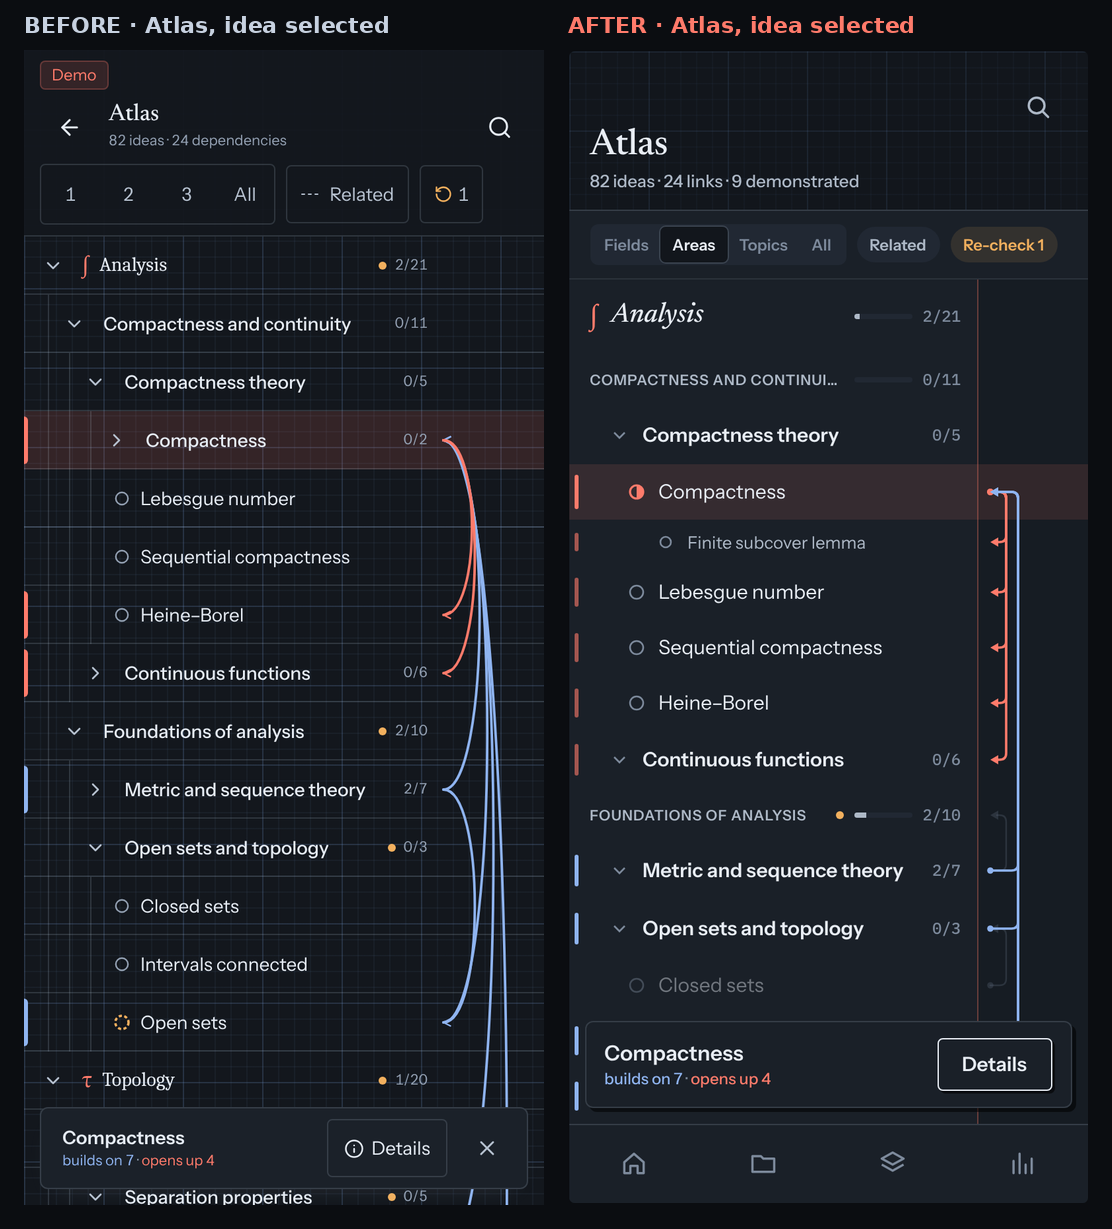
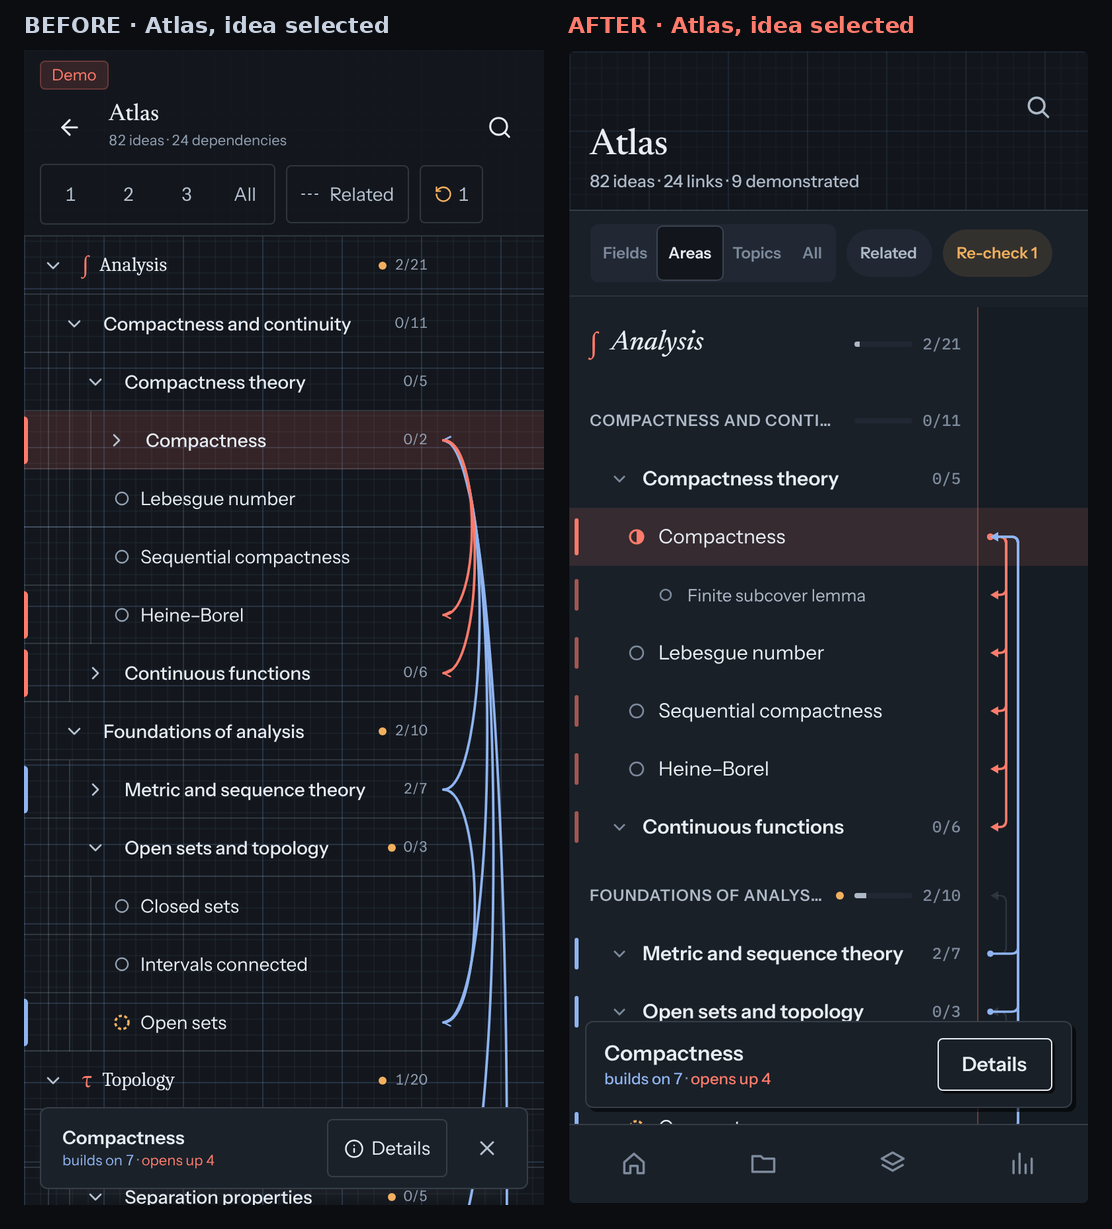
DOCS v4 look: meet hard stress budgets (Auditor block on #520)
- Text >= 12px: Atlas Area small caps and tab labels 12px; spec restates
  stress.md 1.2 (text >= 12px, maths >= 16px).
- Touch targets >= 44x44: every interactive Atlas row 44px (hierarchy by
  type, indent and non-interactive spacing); Route stations/capsules are
  never separate targets - Today Route is one link, project page adds
  44px prev/next steppers; toolbar hit areas >= 44px.
- Marks >= 8px edge clearance: capsules and stations spaced by measured
  edge clearance; open-stage stations inset; finished/far stages merge
  when they cannot fit. Mockups measured in-browser: min gap 8px.
- Atlas link threshold aligned with stress.md C1 (60).
- QA-4 and Definition of done inherit every stress budget (DOM nodes,
  4x CPU render time, E1 request/byte limits) as a hard gate.

Claude-Session: https://claude.ai/code/session_0172Sf9xwUy1G35PpYwED8Nj

diff --git a/docs/design/v4/mockups.html b/docs/design/v4/mockups.html
@@ -78,31 +78,31 @@ body{background:#0B0D11;font-family:var(--sans);color:var(--ink);padding:24px;di
 .spark i{width:8px;background:var(--ink-3);border-radius:2px 2px 0 0;opacity:.7}
 .spark i.today{background:var(--accent);opacity:1}
 .tabbar{position:absolute;left:0;right:0;bottom:0;height:60px;background:var(--paper);border-top:1px solid var(--edge);display:flex;justify-content:space-around;align-items:center}
-.tab{display:flex;flex-direction:column;align-items:center;gap:2px;color:var(--ink-3);font:600 11px var(--sans);min-width:60px}
+.tab{display:flex;flex-direction:column;align-items:center;gap:2px;color:var(--ink-3);font:600 12px var(--sans);min-width:60px}
 .tab svg{width:22px;height:22px}
 .tab.on{color:var(--accent)}
 /* Atlas */
 .atlas{margin:0 -16px;background:var(--paper);border-top:1px solid var(--edge);position:relative}
 .tool{display:flex;gap:8px;align-items:center;padding:10px 16px;border-bottom:1px solid var(--hair)}
 .seg{display:flex;background:var(--paper-2);border-radius:6px;padding:2px}
-.seg span{font:600 12px var(--sans);color:var(--ink-3);padding:6px 9px;border-radius:4px}
+.seg span{font:600 12px var(--sans);color:var(--ink-3);padding:0 8px;height:40px;line-height:40px;border-radius:4px}
 .seg span.on{background:var(--bg);color:var(--ink);box-shadow:0 0 0 1px var(--edge)}
-.toggle{font:600 12px var(--sans);color:var(--ink-2);padding:6px 10px;border-radius:999px;background:var(--paper-2)}
+.toggle{white-space:nowrap;font:600 12px var(--sans);color:var(--ink-2);padding:0 11px;height:36px;line-height:36px;border-radius:999px;background:var(--paper-2)}
 .toggle.warn{color:var(--late);background:color-mix(in srgb,var(--late) 12%,transparent)}
 .tree{position:relative}
 .margin{position:absolute;top:0;bottom:0;right:0;width:84px;border-left:1px solid color-mix(in srgb,var(--accent) 35%,transparent);background:color-mix(in srgb,var(--bg) 40%,transparent)}
 .n{position:relative;display:flex;align-items:center;gap:10px;padding-right:96px}
 .n .guide{position:absolute;top:0;bottom:0;width:1px;background:var(--hair)}
-.n.field{height:56px;padding-left:16px}
+.n.field{height:56px;padding-left:16px;margin-top:8px}
 .n.field .nm{font:italic 500 21px var(--display)}
 .n.field .g{font:italic 22px 'STIX Two Text',serif;color:var(--accent)}
-.n.area{height:40px;padding-left:16px}
-.n.area .nm{font:600 11px var(--sans);letter-spacing:.05em;text-transform:uppercase;color:var(--ink-2);white-space:nowrap;overflow:hidden;text-overflow:ellipsis;min-width:0}
+.n.area{height:44px;padding-left:16px;margin-top:8px}
+.n.area .nm{font:600 12px var(--sans);letter-spacing:.05em;text-transform:uppercase;color:var(--ink-2);white-space:nowrap;overflow:hidden;text-overflow:ellipsis;min-width:0}
 .n.topic{height:44px;padding-left:30px}
 .n.topic .nm{font:600 15px var(--sans);white-space:nowrap;overflow:hidden;text-overflow:ellipsis;min-width:0}
-.n.idea{height:42px;padding-left:44px}
+.n.idea{height:44px;padding-left:44px}
 .n.idea .nm{font:400 15px var(--sans);color:var(--ink)}
-.n.detail{height:34px;padding-left:66px}
+.n.detail{height:44px;padding-left:66px}
 .n.detail .nm{font:400 13px var(--sans);color:var(--ink-2)}
 .prog{margin-left:auto;display:flex;align-items:center;gap:8px;font:500 12px var(--mono);color:var(--ink-3)}
 .prog .bar{width:44px;height:4px;border-radius:2px;background:var(--paper-2);overflow:hidden}
@@ -271,7 +271,7 @@ const css=n=>getComputedStyle(document.documentElement).getPropertyValue(n);
 function draw(svg){
  const d=JSON.parse(svg.dataset.route), W=svg.getBoundingClientRect().width, H=64, y=24;
  const scope=svg.closest('.day')?'.day':null;
- const total=d.stages.reduce((a,b)=>a+b,0), gap=7, NS='http://www.w3.org/2000/svg';
+ const total=d.stages.reduce((a,b)=>a+b,0), gap=8, NS='http://www.w3.org/2000/svg';
  const el=(t,a)=>{const e=document.createElementNS(NS,t);for(const k in a)e.setAttribute(k,a[k]);svg.appendChild(e);return e};
  const v=n=>`var(${n})`;
  let segs=[];
@@ -279,25 +279,34 @@ function draw(svg){
   let x=8; const step=(W-16)/(total-1); let idx=0;
   d.stages.forEach((c,s)=>{segs.push({s,x0:8+idx*step,x1:8+(idx+c-1)*step,expanded:true,count:c,start:idx});idx+=c});
  } else {
-  const n=d.stages.length, curW=Math.min(W*0.56, d.stages[d.cur]*26), rest=W-16-curW-gap*(n-1);
-  const others=d.stages.reduce((a,c,i)=>i===d.cur?a:a+Math.sqrt(c),0);
+  // groups: merge finished stages (and then far future ones) until every capsule is >= 4px with 8px clearance
+  let groups=d.stages.map((c,s)=>({s,count:c,members:[s]}));
+  const curW=Math.min(W*0.56, d.stages[d.cur]*26);
+  const fits=g=>{const k=g.length-1, rest=W-16-curW-gap*(g.length-1);const o=g.filter(x=>x.s!==d.cur);return o.length===0||rest/o.length>=6};
+  if(!fits(groups)&&d.cur>1){const done=groups.slice(0,d.cur);groups=[{s:0,count:done.reduce((a,x)=>a+x.count,0),members:done.map(x=>x.s),merged:true},...groups.slice(d.cur)];}
+  while(!fits(groups)&&groups.length>3){const a=groups.pop(),b=groups.pop();groups.push({s:b.s,count:a.count+b.count,members:[...b.members,...a.members],merged:true,future:true});}
+  const n=groups.length, rest=W-16-curW-gap*(n-1);
+  const others=groups.reduce((a,g)=>g.members.includes(d.cur)?a:a+Math.sqrt(g.count),0);
   let x=8;
-  d.stages.forEach((c,s)=>{const w=s===d.cur?curW:rest*Math.sqrt(c)/others;segs.push({s,x0:x,x1:x+w,expanded:s===d.cur,count:c});x+=w+gap});
+  groups.forEach(g=>{const isCur=g.members.length===1&&g.members[0]===d.cur;const w=isCur?curW:rest*Math.sqrt(g.count)/others;
+   const done=g.members.reduce((a,m)=>a+d.done[m],0);
+   segs.push({s:isCur?d.cur:(g.members[0]<d.cur?-1:999),x0:x,x1:x+w,expanded:isCur,count:g.count,doneOverride:done,members:g.members});x+=w+gap});
  }
  // track
  segs.forEach((g,i)=>{
-  const done=d.done[g.s], full=done===g.count, past=g.s<d.cur, future=g.s>d.cur;
+  const done=g.doneOverride??d.done[g.s], full=done===g.count, past=g.s<d.cur, future=g.s>d.cur;
   if(!g.expanded){
    if(past||full){el('rect',{x:g.x0,y:y-3,width:Math.max(2,g.x1-g.x0),height:6,rx:3,fill:d.late&&g.s===d.cur-1?v('--late'):v('--ink-2'),opacity:.9});
     if(d.early&&past)el('line',{x1:g.x0,x2:g.x1,y1:y+7,y2:y+7,stroke:v('--early'),'stroke-width':1.5});}
    else el('rect',{x:g.x0+.75,y:y-2.25,width:Math.max(2,g.x1-g.x0-1.5),height:4.5,rx:2.25,fill:'none',stroke:v('--ink-4'),'stroke-width':1.5});
   } else {
-   const k=g.count, step=k>1?(g.x1-g.x0)/(k-1):0, cs=g.s===d.cur?d.curStation:(done);
-   for(let j=0;j<k-1;j++){const xa=g.x0+j*step, xb=xa+step, isDone=j<done;
+   const inset=total<=14?0:7, gx0=g.x0+inset, gx1=g.x1-inset;
+   const k=g.count, step=k>1?(gx1-gx0)/(k-1):0, cs=g.s===d.cur?d.curStation:(done);
+   for(let j=0;j<k-1;j++){const xa=gx0+j*step, xb=xa+step, isDone=j<done;
     const late=d.late&&g.s===d.cur&&j===cs-1;
     el('line',{x1:xa,x2:xb,y1:y,y2:y,stroke:late?v('--late'):isDone||(g.s<d.cur)?v('--ink-2'):v('--ink-4'),'stroke-width':isDone||g.s<d.cur?2.5:1.5,'stroke-dasharray':late?'5 4':(isDone||g.s<d.cur)?'':'1 4','stroke-linecap':'round'});}
-   if(d.early&&g.s<d.cur)el('line',{x1:g.x0,x2:g.x1,y1:y+6,y2:y+6,stroke:v('--early'),'stroke-width':1.2});
-   for(let j=0;j<k;j++){const x=g.x0+j*step, isCur=g.s===d.cur&&j===cs, isDone=j<done||g.s<d.cur;
+   if(d.early&&g.s<d.cur)el('line',{x1:gx0,x2:gx1,y1:y+6,y2:y+6,stroke:v('--early'),'stroke-width':1.2});
+   for(let j=0;j<k;j++){const x=gx0+j*step, isCur=g.s===d.cur&&j===cs, isDone=j<done||g.s<d.cur;
     if(isCur){el('circle',{cx:x,cy:y,r:11,fill:v('--accent'),opacity:.16});el('circle',{cx:x,cy:y,r:5.5,fill:v('--accent')});}
     else el('circle',{cx:x,cy:y,r:isDone?3.6:3.4,fill:isDone?v('--ink-2'):v('--paper'),stroke:isDone?'none':v('--ink-3'),'stroke-width':1.4});}
   }
@@ -305,14 +314,14 @@ function draw(svg){
   if(i>0&&total<=14){const xm=(segs[i-1].x1+g.x0)/2; el('line',{x1:xm,x2:xm,y1:y-9,y2:y+9,stroke:v('--ink-4'),'stroke-width':1});}
  });
  // labels under
- const curSeg=segs[d.cur];
+ const curSeg=segs.find(g=>g.expanded)||segs[d.cur];
  const lab=(x,txt,anchor,color,weight)=>{const t=el('text',{x,y:y+28,'text-anchor':anchor,fill:color,'font-family':'Instrument Sans','font-size':12,'font-weight':weight||500});t.textContent=txt;return t};
  if(total<=14){segs.forEach(g=>{if(d.labels[g.s])lab(g.x0,d.labels[g.s],'start',g.s===d.cur?v('--ink'):v('--ink-3'),g.s===d.cur?600:500)});}
  else {
   if(d.labels[d.cur]) lab(curSeg.x0,d.labels[d.cur],'start',v('--ink'),600); else lab(curSeg.x0,'Stage '+(d.cur+1),'start',v('--ink'),600);
-  const after=segs.slice(d.cur+1); const remaining=after.reduce((a,g)=>a+g.count,0);
-  if(after.length)lab(W-8,after.length+' stages · '+remaining+' to go','end',v('--ink-3'));
-  const before=segs.slice(0,d.cur); if(before.length&&curSeg.x0>60)lab(8,before.length+' done','start',v('--ink-3'));
+  const afterSt=d.stages.slice(d.cur+1); const remaining=afterSt.reduce((a,c)=>a+c,0);
+  if(afterSt.length)lab(W-8,afterSt.length+' stages · '+remaining+' to go','end',v('--ink-3'));
+  if(d.cur>0&&curSeg.x0>60)lab(8,d.cur+' done','start',v('--ink-3'));
  }
  // current code above
  const k=curSeg.count, step=k>1?(curSeg.x1-curSeg.x0)/(k-1):0, cx=curSeg.x0+step*d.curStation;

diff --git a/docs/spec/v4-look.md b/docs/spec/v4-look.md
@@ -64,7 +64,7 @@ Rules:
 | Meta | Instrument Sans 500 | 13 / 18, `--ink-2` | secondary lines; footnotes 12 px `--ink-3` |
 | Code | IBM Plex Mono 500 | 12, tabular | checkpoint codes (CP4), card numbers (N1) only |
 
-Durations and counts use Instrument Sans with tabular figures ("18 h 40 min", "3 of 36", "Due now"). Uppercase is used only for Atlas Area labels (small caps, 11 px, 0.05 em). Remove EB Garamond from the font URL in `index.html`. Maths stays STIX/KaTeX ≥ 16 px (stress.md §1).
+Durations and counts use Instrument Sans with tabular figures ("18 h 40 min", "3 of 36", "Due now"). Uppercase is used only for Atlas Area labels (small caps, 12 px, 0.05 em). The hard stress budgets of stress.md §1.2 hold everywhere: no informative text under 12 px, and no maths under 16 px. Remove EB Garamond from the font URL in `index.html`. Maths stays STIX/KaTeX ≥ 16 px (stress.md §1).
 
 ### 2d. The drawing becomes a letterhead
 
@@ -116,7 +116,7 @@ The Route is 64 px tall. The track sits at y = 24 and labels sit on a baseline a
   - Every other stage is a **capsule** on the same line:
     - done stage: 6 px filled `--ink-2`, tinted `--late` if it finished late;
     - future stage: a 4.5 px outline in `--ink-4`.
-  - Capsule widths are ∝ √count with 7 px gaps, so marks are never closer than 8 px (stress.md §1.2).
+  - Capsule widths are ∝ √count (minimum 4 px), with **at least 8 px edge clearance** between any two marks: capsule to capsule, capsule to station, and station to station (stress.md §1.2). If 15 or more stages cannot fit at 8 px clearance, the farthest future stages merge into one capsule labelled "+n stages".
   - Labels:
     - the current stage name under its start (`--ink` 600);
     - "5 done" at the left when there is room;
@@ -125,15 +125,16 @@ The Route is 64 px tall. The track sits at y = 24 and labels sit on a baseline a
   - Keep neutral groups of 8.
   - Label only the current one ("CP9–16"); the others are unlabelled capsules.
   - Never draw "Stage" as a name.
-- **Interaction:**
-  - The whole Route is one control, 64 px tall.
-  - Tapping a capsule unfolds that stage (180 ms width transition; none with reduced motion).
-  - Tapping a station selects it and updates the now-line; a second tap opens the checkpoint sheet.
-  - ← and → move station by station across stages, unfolding as they go.
-  - Every station is reachable with ≥ 44 px targets: the band is 64 px tall, and in the unfolded stage stations are about 24 px apart or more, so a tap picks the nearest station.
+- **Interaction:** every interactive element is at least 44 × 44 px. Stations and capsules are never separate tap targets.
+  - **On Today:** the whole Route (64 px tall, full card width) is one link to the current checkpoint's sheet. There is no station browsing on Today.
+  - **On the project page:** the Route is one 80 px-tall control.
+    - A tap selects the nearest station, or unfolds the tapped stage (180 ms width transition; none with reduced motion). This is a convenience only.
+    - The now-line carries **‹ and › stepper buttons, 44 × 44 px**, which reach every station in plan order across stages, unfolding as they go.
+    - ← and → do the same from the keyboard; Enter or a 44 px **Open** button opens the checkpoint sheet.
+  - The Mini Route is not interactive: its row is the target.
 - **Now-line** under the Route: `CP4` (code style, accent), the title (Tex), and "3 of 36" right-aligned in `--ink-3`.
 - **Mini Route** for Paths rows, Today's "n more" list and the project switcher:
-  - one 6 px capsule per stage, 2 px gaps, filled by done;
+  - one 6 px capsule per stage, 2 px gaps, filled by done; each segment is at least 8 px wide, and if they do not fit, neighbouring future stages merge (stress.md A2);
   - a 2 × 12 px accent notch at the current checkpoint;
   - never ticks.
 - **Project page:** the same Route at 80 px, with every stage name shown (two lines allowed) and a legend listing only the states present.
@@ -163,17 +164,18 @@ Owner decisions kept: a foldable outline, prerequisite links in a right-hand mar
 **Target:**
 
 1. **Paper sheet.** The outline sits on `--paper` (full bleed), with no grid behind the rows. The margin becomes a notebook margin: a 1 px `--accent` rule at 35 % on its left edge.
-2. **Levels look different** (rows are no longer all 44 px):
+2. **Levels look different through type, not through shorter rows.** Every interactive row is at least 44 px tall (stress.md §1.2). Hierarchy comes from type, indent and an 8 px non-interactive space above each Area and Field:
 
 | Level | Row | Style | Right side |
 | --- | --- | --- | --- |
 | Field | 56 px, sticky | subject glyph in accent (STIX 22) + Newsreader italic 21 | 44 px progress bar + "2/21" |
-| Area | 40 px | small caps 11 px, 0.05 em, `--ink-2` | progress bar + count |
+| Area | 44 px | small caps 12 px, 0.05 em, `--ink-2` | progress bar + count |
 | Topic | 44 px | Instrument Sans 15/600 + chevron | count only |
-| Idea | 42 px | 15/400 + status disc | — |
-| Detail | 34 px | 13 px `--ink-2`, one extra indent | — |
+| Idea | 44 px | 15/400 + status disc | — |
+| Detail | 44 px | 13 px `--ink-2`, one extra indent | — |
 
    - Hairlines only before Areas and Fields.
+   - Fold chevrons keep their 44 × 44 px button (`size-11`), and the select target is the rest of the row. Neither is smaller than 44 px or overlaps another target.
    - Guide lines stay, at 6 %.
    - Status discs stay, at 12 px. Re-check keeps its amber, now named `--late`, and a branch shows a `--late` dot when something inside needs a re-check.
 3. **Links become lanes, not bows:**
@@ -183,8 +185,9 @@ Owner decisions kept: a foldable outline, prerequisite links in a right-hand mar
    - Links that share an endpoint share a lane, so a selected idea reads as two clean trunks: **builds on** (`--link`, upwards) and **opens up** (`--accent`, downwards).
    - Bundle counts become 16 px pills with 12 px text (supersedes #483 / PR #488).
 4. **Change form at scale** (stress principle):
-   - With ≤ 40 visible links, draw them all at 35 % `--ink-3`.
-   - Above that, draw none and show a small in/out port tick on each row that has links, plus the caption "Tap an idea to trace its links".
+   - With ≤ 60 visible links, draw them all at 35 % `--ink-3`.
+   - Above 60, follow stress.md C1: draw only links that touch a folded branch or the selection, never more than 60, and show "312 links hidden — fold or select an idea".
+   - Rows whose links are hidden show a small in/out port tick. It is not interactive: the row itself is the target.
    - Selection always draws the full chain.
 5. **Selection:**
    - the row gets an accent tint at 12 % and a 3 px bar *inside* the row (x = 4);
@@ -194,6 +197,7 @@ Owner decisions kept: a foldable outline, prerequisite links in a right-hand mar
    - one segmented control "Fields · Areas · Topics · All";
    - a "Related" toggle pill with a visible on state;
    - "Re-check n" as a `--late` pill, only when n > 0.
+   - Every toolbar control has a hit area of at least 44 × 44 px, without overlapping its neighbours. Pills may be drawn smaller inside it.
    - Header: "Atlas" (display), then "82 ideas · 24 links · 9 demonstrated".
 7. **Details sheet:**
    - typeset title and path (#485), with tappable crumbs;
@@ -327,16 +331,16 @@ Add to `plan.md` §8 as "v4 look (owner, 31 Oct 13:08)". One PR per task (split 
 | Task | Depends on | Owns | Scope and acceptance |
 | --- | --- | --- | --- |
 | LOOK-0 Tokens | — | `scripts/make-themes.ts`, `src/styles/themes.css`, `tokens.css`, `src/lib/schedule.ts` (`scheduleColor`), `docs/agents/README.md` §4 | §2a tokens and the §8 decision changes. **Accept:** `--accent`, `--late` and `--danger` differ pairwise by ΔE2000 ≥ 20 in both worlds (the §2a values give 24–51); the legend shows three distinct colours. |
-| LOOK-1 Surfaces and type | LOOK-0 | `src/styles/graph.css`, `src/ui/{Chip,IconButton,Segmented,Switch,Card,Slab,Tile,Button}.tsx`, new `src/ui/SectionHeading.tsx`, `index.html` | §2b, §2c. **Accept:** an e2e check finds no `.card`/`.slab`/`.tile` inside another, no box-shadow on non-interactive elements, every section heading via `SectionHeading`, no Plex Mono outside `[data-code]`, and no EB Garamond request. |
+| LOOK-1 Surfaces and type | LOOK-0 | `src/styles/graph.css`, `src/ui/{Chip,IconButton,Segmented,Switch,Card,Slab,Tile,Button}.tsx`, new `src/ui/SectionHeading.tsx`, `index.html` | §2b, §2c. **Accept:** an e2e check finds no `.card`/`.slab`/`.tile` inside another, no box-shadow on non-interactive elements, every section heading via `SectionHeading`, no Plex Mono outside `[data-code]`, no informative text under 12 px, and no EB Garamond request. |
 | LOOK-2 Letterhead | LOOK-1 | `src/ui/backgrounds/graph/GraphSketch.tsx`, `src/ui/Ground.tsx` | §2d and night grid opacity. **Accept:** on every screen, after scrolling 600 px the curve is out of view; no curve pixel overlaps a heading, chart or row (layout check). |
-| LOOK-3 Route | LOOK-0 | `src/ui/timeline/*`, `src/features/home/GoalDistance.tsx`, `src/features/projects/Page.tsx` (rows), project hero | §3. **Accept:** at 9, 36 (no stages), 40 × 15 and 100 × 15 checkpoints: one line, no horizontal scroll, no clipped glyph (`scrollWidth ≤ clientWidth` on every text node), marks ≥ 8 px apart, current code visible, every station reachable by tap and arrow keys; goal card ≤ 210 px; Today with 3 goals + Review + Tutor ≤ 2 screens at 390 × 844. |
-| LOOK-4 Atlas | LOOK-1 | `src/features/atlas/*` | §4. **Accept:** levels have distinct heights and styles; links as lanes; at 600 ideas ports and the caption show, and selection draws the chain; bundle pills ≥ 12 px; no grid behind rows. Closes #483 and #485 if still open. |
+| LOOK-3 Route | LOOK-0 | `src/ui/timeline/*`, `src/features/home/GoalDistance.tsx`, `src/features/projects/Page.tsx` (rows), project hero | §3. **Accept:** at 9, 36 (no stages), 40 × 15 and 100 × 15 checkpoints: one line, no horizontal scroll, no clipped glyph (`scrollWidth ≤ clientWidth` on every text node), marks ≥ 8 px edge clearance (measured in the browser for S and X at 360 and 390), current code visible, every station reachable through the 44 × 44 px steppers and the arrow keys, no interactive element under 44 × 44 px; goal card ≤ 210 px; Today with 3 goals + Review + Tutor ≤ 2 screens at 390 × 844. |
+| LOOK-4 Atlas | LOOK-1 | `src/features/atlas/*` | §4. **Accept:** levels have distinct type; every interactive row and chevron ≥ 44 × 44 px (Playwright bounding boxes); Area labels and bundle pills ≥ 12 px; links as lanes; in profile X with "All", never more than 60 links drawn and the hidden-links caption shows; selection draws the chain; no grid behind rows; first render < 1 s at 4× CPU with < 1,500 DOM nodes (stress.md C2). Closes #483 and #485 if still open. |
 | LOOK-5 Today and Paths | LOOK-3 | `src/features/home/*`, `src/features/projects/*` | §5 Today (including "Bottom of Today") and Paths. The Continue row overflow can land early as a `FIX` PR. |
 | LOOK-6 Project family | LOOK-3 | `src/features/project/*`, `src/features/checkpoint/*`, `src/features/session/*` | §5 Project, Checkpoint sheet (including the days-late mismatch), Session, Sources. |
 | LOOK-7 Review, cards, insights | LOOK-1 | `src/features/{review,review-run,review-done,cards,card,insights}/*`, `src/ui/charts/*` | §5, including the cards-list LaTeX bug and `plainMath` `\mathbb R`. |
 | LOOK-8 Approve and plan review | LOOK-4 | `src/features/{proposals,plan-proposal}/*` | §5 Approve, Plan proposal. |
 | LOOK-9 Settings and the rest | LOOK-1 | `src/features/{settings,sign-in,new-project}/*`, `src/app/*`, `vite.config.ts` | §5 Settings, Sign in, New project, Everywhere. |
-| QA-4 Visual acceptance | LOOK-1 … 9 | `scripts/review-shots.mjs`, `.github/workflows/review-shots.yml`, `docs/acceptance/` | Fix `review-shots.mjs`: it still requires 15 themes and throws on today's two. Capture **every** route (list in `docs/design/v4/capture-routes.md`) × day/night × default/S. Compare with `docs/design/v4/` and file one issue per deviation. |
+| QA-4 Visual acceptance | LOOK-1 … 9 | `scripts/review-shots.mjs`, `.github/workflows/review-shots.yml`, `docs/acceptance/` | Fix `review-shots.mjs`: it still requires 15 themes and throws on today's two. Capture **every** route (list in `docs/design/v4/capture-routes.md`) × day/night × default/S. Compare with `docs/design/v4/` and file one issue per deviation. **Hard gate, not just images:** re-run `tests/e2e/stress.spec.ts` on every route in both profiles and both worlds at 360 and 390. It must pass: marks ≥ 8 px apart, tap targets ≥ 44 px, text ≥ 12 px, maths ≥ 16 px, no horizontal overflow, < 1,500 DOM nodes per screen, first render < 1.5 s at 4× CPU, and request count and transfer size within the E1 budgets (stress.md §3, QA-3). A beautiful screenshot cannot pass QA-4 on its own. |
 
 **Start now in parallel:** LOOK-0, then LOOK-1, LOOK-3 and LOOK-4 (the three the owner sees first). The two bugs in LOOK-6 and LOOK-7 (days-late mismatch, cards-list LaTeX) may land early as `FIX` PRs.
 
@@ -350,6 +354,7 @@ Add to `plan.md` §8 as "v4 look (owner, 31 Oct 13:08)". One PR per task (split 
 - Every section heading is the same style.
 - No drawing behind data.
 - No clipped glyphs anywhere at 360 px, in both profiles.
+- The stress budgets still pass on every screen, in both profiles and both worlds (QA-4): text ≥ 12 px, maths ≥ 16 px, tap targets ≥ 44 × 44 px, marks ≥ 8 px apart, < 1,500 DOM nodes, render < 1.5 s at 4× CPU, and E1 request and byte limits. No look change may trade a budget for appearance; an exception needs the owner.
 
 ## 8. Owner decisions this changes (approved 31 Oct, 13:59)
 
@@ -358,8 +363,8 @@ Add to `plan.md` §8 as "v4 look (owner, 31 Oct 13:08)". One PR per task (split 
 | Schedule colours (v3 §3) | late = `--bad` (red), on time = `--accent` (red) | late = `--late` (ochre, dashed), on time = ink |
 | Background curve placement (v3 §1b) | fixed, lower right, with italic label | letterhead at the top, scrolls away, no label |
 | Card material at night (v3 §1) | 1.5 px light ink border + offset shadow on cards, chips and buttons | cards: 1 px dim edge + dark offset shadow; chips flat; shadow only on buttons |
-| Atlas rows (v3 §4) | all rows 44 px | 56 / 40 / 44 / 42 / 34 px by level |
-| Atlas links at scale (v3 §4) | always drawn (a rope at 600 ideas) | all drawn at ≤ 40 links; ports + selection above |
+| Atlas rows (v3 §4) | all rows 44 px, same style | Fields 56 px; every other row 44 px with a distinct type per level |
+| Atlas links at scale (v3 §4) | always drawn (a rope at 600 ideas) | all drawn at ≤ 60 links; above that, stress.md C1 plus ports and selection |
 | Goal-card percentage (Today) | red percentage + headline | one schedule chip; "3 of 36" in ink |
 
 Everything else in `docs/agents/README.md` §4 stands: graph paper only, automatic day/night, compact text, calm motion, a docked icon-first tab bar, LaTeX everywhere, the Metro idea (now the Route), the Atlas outline, plan-review drawers and sources-first projects.
